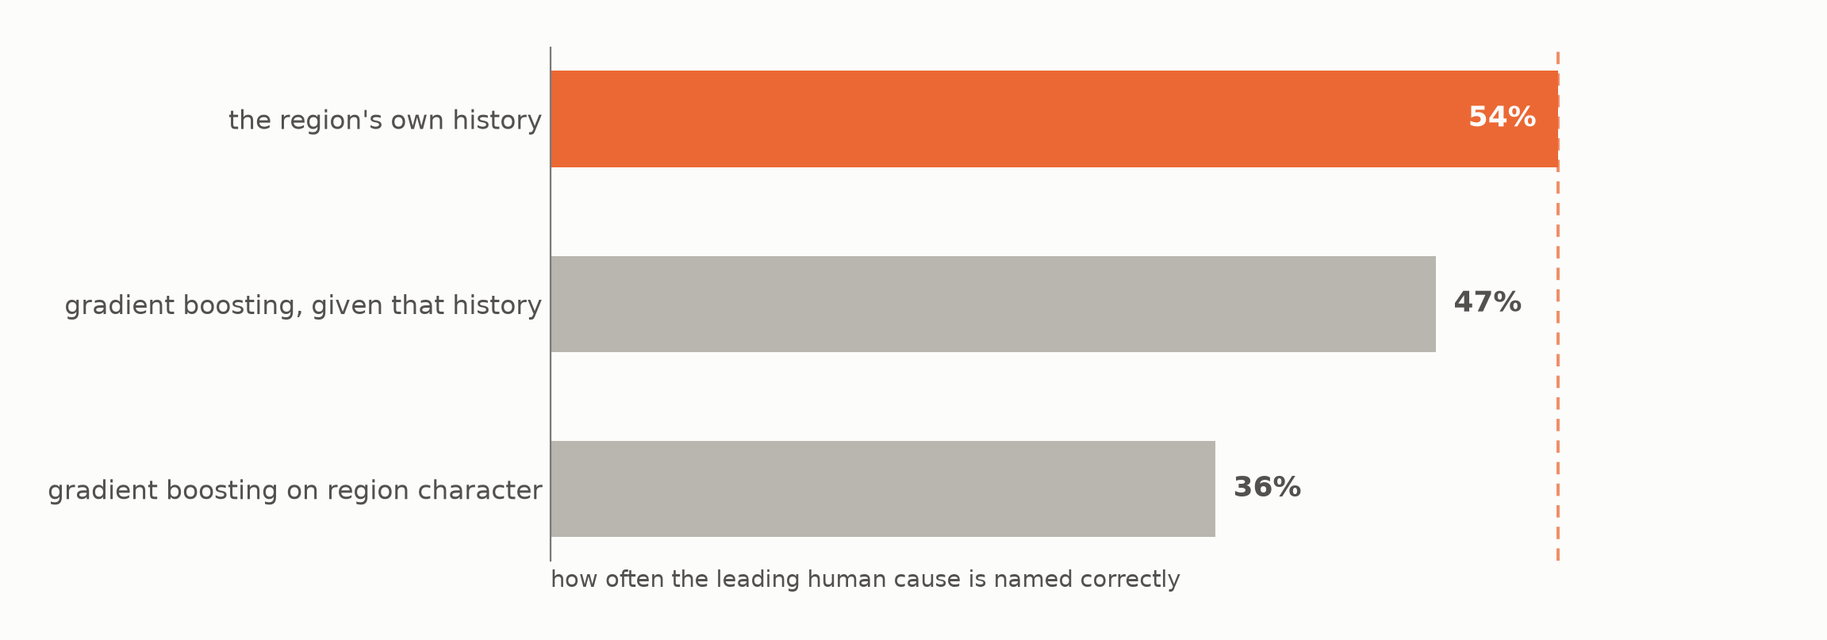
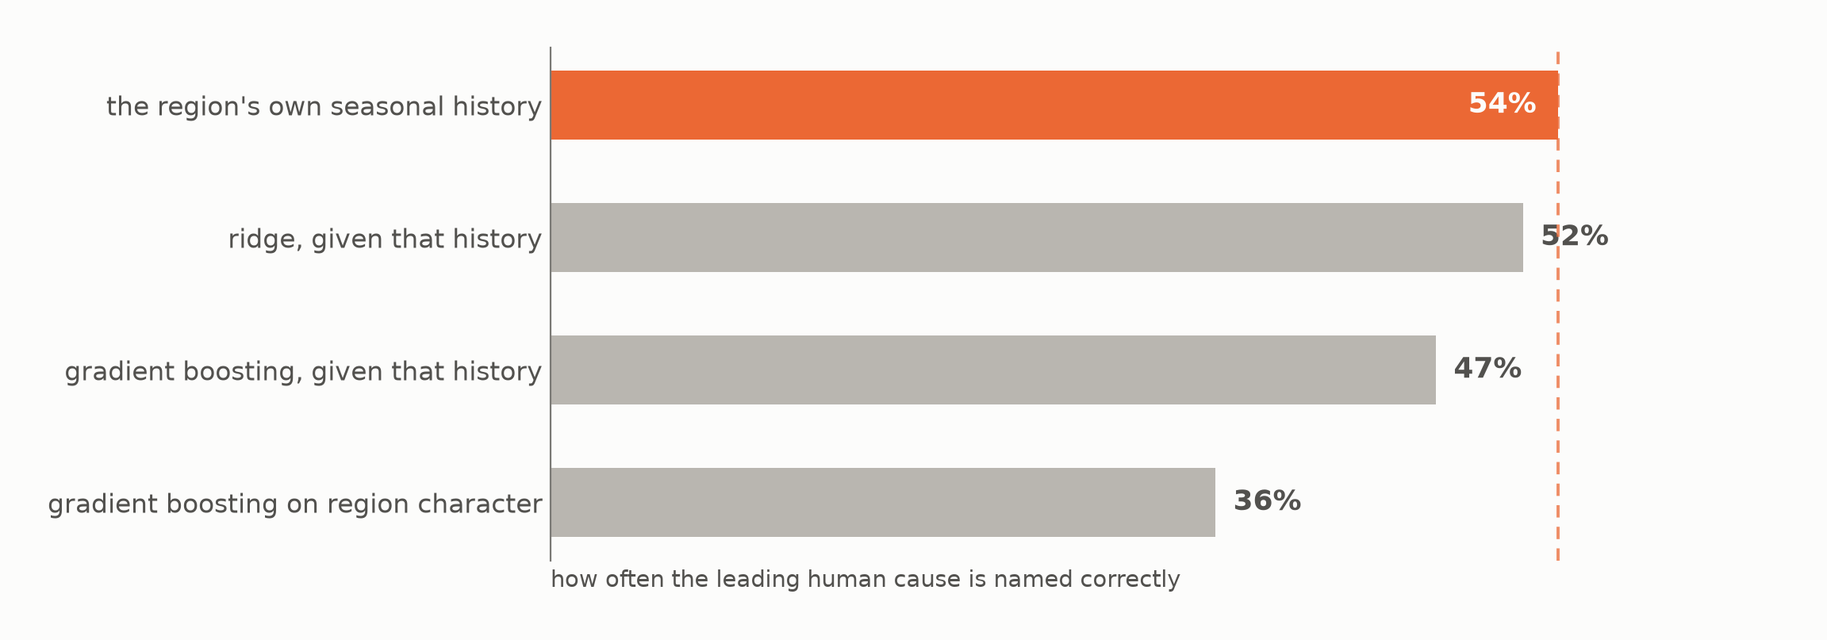
Put the second model family on the human ladder
Three bars all labelled gradient boosting made 'a learned model made it
worse' read as a claim about learned models generally. The ladder now
shows four rungs across two families: 54 (floor) / 52 (ridge+history) /
47 (GB+history) / 36 (GB coarse). The near-miss argues for an information
ceiling more convincingly than three distant losses did.

Ridge on the coarse fingerprints is deliberately not plotted -- 0.3567
against GB's 0.3566, so it would be a duplicate bar reading '36%' twice.
The five-rung table stays in 08_human_cause.

Fixes a bug that only the figure path had: human_rung_scores fits on
train rows but predicted the whole frame, which HistGradientBoosting
tolerates (NaN-native) and ridge does not. Predicts on scored rows only.

The notebook 16 cell asserts all four rungs against 08's numbers, so the
two independently written paths cannot drift silently. They agree to four
decimals.

Also relabels the floor bar to 'seasonal history', matching the tiles,
and rebuilds the timing table from the per-slide TIME lines -- it had
drifted to 10:10 against an actual 10:50.

diff --git a/src/w6_visuals.py b/src/w6_visuals.py
@@ -2661,8 +2661,9 @@ def plot_ablation_ladder(labels, values, out_path: Path, *,
             "out_path": str(out_path)}
 
 
-def human_rung_scores(panel, *, k: int | None = None, cfg=None) -> pd.DataFrame:
-    """The Human branch's three rungs, scored on one held-out set.
+def human_rung_scores(panel, *, k: int | None = None, cfg=None,
+                      include_ridge: bool = True) -> pd.DataFrame:
+    """The Human branch's rungs, scored on one held-out set.
 
     Reproduces `08_human_cause.ipynb`'s ladder by calling the same
     `models.SimplexRegressor` and `trailing.TrailingMean`, so the figure cannot
@@ -2673,9 +2674,30 @@ def human_rung_scores(panel, *, k: int | None = None, cfg=None) -> pd.DataFrame:
       (`f_*`) plus season, with no view of the cell's human past
     * **history-aware** -- the same model, additionally handed the 11 trailing
       human-mix columns as features: the very quantity the floor averages
+    * **ridge_history** -- a *different model family* on that same history-aware
+      feature set (W7; `include_ridge`)
 
-    Fits 22 gradient-boosted regressors, so it takes a couple of minutes.
+    **Why the ridge rung is here.** With only the three gradient-boosting rungs,
+    the figure invites "you picked a learner that overfits" -- and every bar on
+    it being the same family made "a learned model made it worse" read as a
+    claim about learned models generally. Ridge answers it *on the figure*: it
+    beats the booster (the booster was paying a variance cost on a small wide
+    panel -- ~5,300 training cells, 23 features, 11 correlated targets) and
+    still stops short of the floor. Two families converging just below a
+    trailing mean is the evidence for an information ceiling.
+
+    The **coarse** ridge rung is deliberately not returned: it scores 0.3567
+    against gradient boosting's 0.3566, and two bars of identical length
+    reading "36%" twice is noise. The five-rung table lives in
+    `08_human_cause.ipynb`, which is the complete record.
+
+    Fits 22 gradient-boosted regressors (plus 11 near-instant ridges), so it
+    takes a couple of minutes.
     """
+    from sklearn.linear_model import Ridge
+    from sklearn.pipeline import make_pipeline
+    from sklearn.preprocessing import StandardScaler
+
     from models import SimplexRegressor
     from trailing import TrailingMean
 
@@ -2706,17 +2728,45 @@ def human_rung_scores(panel, *, k: int | None = None, cfg=None) -> pd.DataFrame:
                                  weights=w[te])))
 
     base = d[fcols + scols].to_numpy().astype(float)
-    rows = [("the region's own history", "floor") + score(F)]
+    X_hist = np.column_stack([base, F])
+
+    # "seasonal" is load-bearing, not decoration: the grouping is (region, season),
+    # so a cell sees only its own prior same-season occurrences. The tiles figure
+    # says "seasonal history" too -- one baseline must not carry two names across
+    # two consecutive slides.
+    rows = [("the region's own seasonal history", "floor") + score(F)]
     for label, key_, X in (
         ("gradient boosting on region character", "coarse", base),
-        ("gradient boosting, given that history", "history_aware",
-         np.column_stack([base, F])),
+        ("gradient boosting, given that history", "history_aware", X_hist),
     ):
         # Acre weights in the fit, matching `08_human_cause.ipynb`. Without them
         # the learned rungs score differently -- the model spends its capacity on
         # cells that carry almost no acres.
         model = SimplexRegressor().fit(X[tr], act[tr], sample_weight=w[tr])
         rows.append((label, key_) + score(model.predict(X)))
+
+    if include_ridge:
+        # Same clip-and-renormalize projection SimplexRegressor applies, so the
+        # only thing differing from the rung above is the learner. Scaled first:
+        # the fingerprints put acres beside shares, and ridge penalizes raw
+        # coefficients, so unscaled the penalty would land almost entirely on
+        # whichever feature happens to be small-valued.
+        #
+        # Predicted on the test rows only, then scattered back. The gradient-boosting
+        # rungs above predict the whole frame because HistGradientBoosting accepts NaN
+        # natively; ridge does not, and rows outside `ok` carry NaN fingerprints. Only
+        # `te` rows are ever scored, so restricting the predict is a fix rather than a
+        # compromise -- but it means this block cannot be collapsed into the loop above.
+        P = np.full_like(act, np.nan, dtype=float)
+        P[te] = np.column_stack([
+            make_pipeline(StandardScaler(), Ridge(alpha=1.0))
+            .fit(X_hist[tr], act[tr, j], ridge__sample_weight=w[tr])
+            .predict(X_hist[te])
+            for j in range(act.shape[1])
+        ])
+        P[te] = np.clip(P[te], 0, None)         # ridge is unbounded; negatives are not shares
+        P[te] /= P[te].sum(axis=1, keepdims=True)
+        rows.append(("ridge, given that history", "ridge_history") + score(P))
 
     out = pd.DataFrame(rows, columns=["label", "key", "tvd", "top1"]).set_index("key")
     out.attrs["n_test"] = int(te.sum())

diff --git a/coursework/W7/final_script.md b/coursework/W7/final_script.md
@@ -191,17 +191,18 @@ Each slide below carries four blocks:
 
 **SAY**
 
-> A trailing mean is a low bar, so it's worth testing against something that learns. Gradient boosting, first on what kind of place the region is — thirty-six percent, well short of the history. Then the same model handed that history as a feature — the exact numbers the winning bar averages — forty-seven. Still short.
+> A trailing mean is a low bar, so it's worth testing against something that learns. Gradient boosting, first on what kind of place the region is — thirty-six percent, well short of the history. Then the same model handed that history as a feature — the exact numbers the winning bar averages — forty-seven. A second kind of model, given that same history, gets to fifty-two.
 >
-> The dashed line is the bar at the top, and it's the same fifty-four percent from the last slide. Nothing cleared it. **Given the winning quantity, gradient boosting could not beat taking its mean.**
+> The dashed line is the bar at the top, and it's the same fifty-four percent from the last slide. **Two families, and neither one beat taking the average of the thing we handed it.**
 
 **EVIDENCE**
 
-- Three rungs against the floor line: the region's own history names the leading human cause 54% of the time; gradient boosting on region character 36%; the same model given that history as a feature 47%.
-- Bars read bottom to top, worst to best: 36%, 47%, 54%. The dashed vertical is the 54% floor.
+- Four rungs against the floor line: the region's own seasonal history names the leading human cause 54% of the time; ridge given that history 52%; gradient boosting given that history 47%; gradient boosting on region character 36%.
+- Bars read top to bottom, best to worst: 54%, 52%, 47%, 36%. The dashed vertical is the 54% floor.
 - The top bar is slide 4's winning tile, replotted — not a new measurement.
-- Acre-weighted TVD 0.489 / 0.588 / 0.554.
-- Even handed the winning quantity, the model cannot beat taking its mean.
+- Acre-weighted TVD, same order: 0.489 / 0.537 / 0.554 / 0.588. 3,846 held-out cells.
+- **Ridge beats gradient boosting by 4.7 points of top-1**, which is the W7 addition. Everything else about the two rungs is identical — features, split, acre weights, held-out cells, simplex projection — so the gap is the learner alone.
+- Even handed the winning quantity, neither family beats taking its mean.
 
 **WATCH**
 
@@ -209,27 +210,30 @@ Each slide below carries four blocks:
 - **The strongest anti-tuning evidence is the flat `alpha` sweep.** Across four orders of magnitude (0.1 → 1000) ridge's top-1 is **identical to six decimal places** and TVD moves in the fifth. A regularization sweep that changes nothing is what an information ceiling looks like, not what an under-tuned model looks like. Use this if someone presses "did you tune it?"
 - **Ridge is not just rediscovering the floor** — it sits 0.283 TVD units away per cell and names a different top cause in a quarter of them (75.2% argmax agreement). Two different learners arriving near the same score by different routes is stronger evidence than either alone.
 - **Still concede what remains untested:** a full hyperparameter search over the booster, and any family beyond these two. Say "gradient boosting and ridge both lost," never "machine learning doesn't work here." *Settings on the plotted rungs:* `SimplexRegressor()` bare — `HistGradientBoostingRegressor`, `max_iter=300`, `learning_rate=0.05`, `max_leaf_nodes=31`, `random_state=0`.
-- **The figure shows three bars; there are now five rungs.** The two ridge rungs are not plotted. If asked whether another model was tried, the answer is yes and it is in the notebook — do not imply the figure is the whole ladder.
+- **The figure shows four bars; the ladder has five rungs.** Ridge on the coarse fingerprints (35.67%) is not plotted — it duplicates the gradient-boosting coarse bar (35.66%) to within a rounding step, and two identical-length bars both reading "36%" cost a beat of reading time to discover they say the same thing. Notebook 08 has the full table. Do not imply the figure is the whole ladder.
 - **What the result does rule out is "you never gave it the right features."** The history-aware rung was handed the 11 trailing human-mix columns — the exact quantity the floor averages — so the floor is a function it could represent by ignoring its other features. It is **6.5 TVD points and 6.6 top-1 points short of a quantity it was given.** That gap is an order of magnitude past what tuning moves, which is the answer to "isn't this just a hyperparameter problem?"
-- **The figure's top bar is labelled "the region's own history"; slide 4's winning tile now says "the region's own *seasonal* history."** Same quantity, same 54%, two names two slides apart. Say "seasonal" aloud on both so the room hears one baseline, not two — or relabel the figure before the final.
-- **The middle rung is the whole argument and it is easy to skip.** Losing to history is unremarkable; losing *while holding history* is the finding. If only one sentence survives a time cut, keep that one.
-- Do not say "the model failed." It scored 47% out of 11 classes — far above the 9% even guess on slide 4. It lost to a cheaper thing, which is a different claim and the one the ablation ladder is built to make.
+- **The top bar now reads "the region's own seasonal history," matching slide 4's tile** — the two-names-for-one-baseline mismatch is fixed in the figure rather than papered over in delivery. Both slides say the same words for the same 54%.
+- **The two "given that history" rungs are the whole argument and they are easy to skip.** Losing to history is unremarkable; losing *while holding history* is the finding — twice, with two different learners. If only one sentence survives a time cut, keep that one.
+- **Do not name ridge aloud unless asked.** The SAY says "a second kind of model" because the bar is labelled and the audience is executives; the word buys nothing spoken and costs a beat. The label is there for anyone who wants it.
+- Do not say "the model failed." The best learned rung scored 52% out of 11 classes — far above the 9% even guess on slide 4. It lost to a cheaper thing, which is a different claim and the one the ablation ladder is built to make.
 - Keep this slide — it is the only one conceding a model was tried and lost, which is what keeps the nulls credible.
-- The bars are a **hit rate** — how often the leading cause is named right, out of 11 — so "of the time" is the correct phrasing here, unlike slide 3. The TVDs (0.489 / 0.588 / 0.554) are in the evidence above but are **not what is plotted**; do not quote them off this figure.
+- The bars are a **hit rate** — how often the leading cause is named right, out of 11 — so "of the time" is the correct phrasing here, unlike slide 3. The TVDs are in the evidence above but are **not what is plotted**; do not quote them off this figure.
 
-**TIME —** 0:30
+**TIME —** 0:40
 
 ---
 
-## Slide 6 — Where fires start is predictable, but not at ecoregion scale.
+## Slide 6 — Where fires start is predictable, at the scale where you'd site the work.
 
 *Figure:* `img/w6_siting_glance.png`
 
 **SAY**
 
-> Everything so far has been a whole ecoregion — one number for an area the size of a small state. That is the right scale for deciding what to target, and the wrong one for deciding where to put anything. So from here the map breaks into cells of about sixty thousand acres, and the question changes with it: not how much burns, but where fires start. Counts of ignitions, per cell.
+> Everything so far has been a whole ecoregion — one number for an area the size of a small state. That is the right scale for deciding what to target, and the wrong one for deciding where to put anything.
 >
-> This is one region — the Klamath Mountains, northern California and southwest Oregon, about two hundred cells. Rank them on their own history and the dark band is six percent of the region catching a third of next season's starts. Go wider, to the light band: twenty-nine percent of the ground for sixty percent of the starts.
+> So the question changes — and it isn't a finer-grained version of the last one. The map breaks into cells of about sixty thousand acres, and the target changes with it: not shares of burned area, but counts of ignitions, per cell.
+>
+> This is one region — the Klamath Mountains, about two hundred cells. Rank them on their own history and the dark band is six percent of the region catching a third of next season's starts. Go wider, to the light band: twenty-nine percent of the ground for sixty percent of the starts.
 >
 > The return decays from there — chasing ninety percent of the starts takes seventy-eight percent of the ground, which is barely better than treating everywhere. Ranking concentrates the return; it doesn't eliminate the tail.
 
@@ -241,6 +245,9 @@ Each slide below carries four blocks:
 **WATCH**
 
 - The deck's ONE grain change, and three things change at once: unit (105 ecoregions -> 36,234 hexes), target (acres -> ignition counts), answer (shares -> counts). The headline announces only the first; say the others.
+- **This is a distinct sub-project, not a rescue of slide 5.** Delivered in sequence — a null, then a grain drop — the room will infer that the ecoregion model underperformed so the analysis went looking at a finer grain for a better number. It did not: per `CLAUDE.md` the hex ignition surface is "methodologically distinct," a different target at a different grain answering a different planner question, and the Human product ships at 54% on its own terms. The SAY blocks this with "it isn't a finer-grained version of the last one"; if asked directly, say the two are different questions and neither result depends on the other. Do NOT defend it by re-arguing 54%.
+- **The headline asserts a scale, not a comparison — keep it that way.** It previously read "but not at ecoregion scale," which claims a tested result that does not exist: no ignition model was ever built at ecoregion grain and beaten. The hex grain is a **design argument** — an ecoregion is too coarse to site work *inside* — exactly the same shape as slide 2's ecoregion choice, and it takes the same honest answer: the unit was chosen to match the decision, never because it "scored better." If asked why not ecoregions for this, say a planner cannot act on one number for an area the size of a small state; do not imply a head-to-head.
+- **The region is "Klamath Mountains/California High North Coast Range"** — verified from `data/hex_grid_res5.parquet`. The SAY shortens it to "the Klamath Mountains," which is fine as a spoken shorthand, but do not name states or add "northern California and southwest Oregon": the Level III unit also covers the California High North Coast Range, and the locator inset shows the full extent.
 - This is NOT an acres model. Unsaid, the audience reads the capture curve as "32% of the burn under 6% of the ground" — a much stronger claim than the one being made. It is 32% of the STARTS.
 - The return decays fast: 90% of starts needs 77.8% of the ground at 1.16x. The ranking concentrates return; it does not eliminate the tail.
 - Q&A companion: img/w6_capture_curve.png.
@@ -527,17 +534,22 @@ Each slide below carries four blocks:
 
 ## Timing
 
-| | slides | budget |
+Summed from the per-slide **TIME** lines. Re-derive it from those rather than editing this table by hand — the total has drifted from it twice already.
+
+| slide | budget | why it is over 0:30 |
 |---|---|---|
-| Title — setup + BLUF | 1 | 0:45 |
-| Slide 2 — explains the unit | 1 | 0:40 |
-| Slide 3 — names the Tier-1 classes | 1 | 0:40 |
-| Remaining slides | 16 | 8:05 |
-| **Total** | **19** | **10:10** |
+| 0 — title | 0:45 | the deck's only setup: stakeholder, data source, missing-cause caveat |
+| 1 — seasonality | 0:35 | carries the seasonal-horizon citation |
+| 2 — the cause map | 0:40 | the only slide that explains the ecoregion unit |
+| 3 — Tier-1 tiles | 0:55 | names the three classes, the acres denominator, and the spread |
+| 4 — human tiles | 0:45 | the tier change, the 11 causes, and the counts-vs-acres inversion |
+| 5 — the ladder | 0:40 | four rungs and two model families |
+| 6–18 | 0:30 each | 13 slides at the standard budget |
+| **Total** | **10:50** | against a ~10:00 target |
 
-Three slides carry more than an even share: the title is the deck's only setup (stakeholder, data source, missing-cause caveat), slide 2 is the only slide that explains the ecoregion unit, and slide 3 is the only one that names the three Tier-1 classes. All three are load-bearing for everything after them.
+Six slides carry more than an even share, and each is the only place its content appears. The other thirteen get **30 seconds**, which is why every one of them has to open on its assertion rather than a wind-up.
 
-The remaining sixteen slides get **30 seconds each**, which is why every slide has to open on its assertion rather than on a wind-up. Re-time after the first full run — measured pace beats estimated pace, and the trim comes out of whatever actually ran long.
+**Currently 50 seconds long.** Re-time after the first full run — measured pace beats estimated pace, and the trim comes out of whatever actually ran long rather than out of whatever looks longest on the page.
 
 **Next compression candidates: slides 12–13** (a matched pair that can compress to one). Slides **8 and 9** are also a matched pair, but neither survives alone — cut both or neither.
 

diff --git a/coursework/collaboration_log.md b/coursework/collaboration_log.md
@@ -1427,3 +1427,15 @@ Week 4 opens the modeling design against the cleaned analysis grain (`data/regio
 - **Method note I want on the record.** The agent replicated cells 1/3/5/17/18/21 outside the notebook first and **reproduced the committed outputs exactly** (0.4887 / 0.5877 / 0.5536) before adding anything — so the new numbers come from a pipeline proven faithful, not a re-implementation that might differ. Then it executed the new cell as written in the notebook to confirm every figure in the Finding matches. **I have not run the notebook myself yet;** the three new cells carry no outputs.
 - **No new dependency** — scikit-learn was already declared in `environment.yml`.
 - **What this changed:** `notebook/08_human_cause.ipynb` (+3 cells: framing, `SimplexRidge` + alpha sweep + 5-rung ladder + floor-similarity control, Finding); `CLAUDE.md` — the human-branch "closed, not open" section now records the family test and scopes the remaining untried rung to a booster hyperparameter search; slide 5 SAY ("the model" → "gradient boosting") and five WATCH lines, including one noting the figure shows three bars while the ladder is now five rungs.
+
+### Entry 7.15
+- **Date:** 2026-08-17
+- **What was going on:** Having established that ridge beats the booster and still loses to the floor (Entry 7.14), the finding lived only in a notebook and a WATCH line. I decided to put it on the slide: **I want the audience to see that we did more diligence.**
+- **The recommendation I took, and the one I declined.** The agent proposed adding one bar (ridge-with-history, 52%) and leaving ridge-on-coarse off, because at 35.67% it duplicates the gradient-boosting coarse bar at 35.66% — two identical-length bars both reading "36%" is reading time spent discovering they say the same thing. I agreed. The full five-rung table stays in notebook 08, which is the complete record; the figure is the argument, not the archive.
+- **Why the fourth bar earns its place.** Three bars all labelled "gradient boosting" is what made "a learned model made it worse" read as a claim about learned models generally. Four bars across two families makes the headline literally true of what is plotted. And the *near-miss* is more persuasive than the losses: a bar stopping 1.9 points short of the floor rule argues for a ceiling in a way a bar 18 points short cannot.
+- **A real bug surfaced that only appeared in the figure path.** `human_rung_scores` fits on the training rows but predicts the **whole** frame — fine for `HistGradientBoosting`, which accepts NaN natively, and fatal for ridge, which does not. Rows outside the usable mask carry NaN fingerprints. The fix is to predict on the scored rows only and scatter back, which is also just correct: nothing outside `te` is ever scored. Worth recording because the notebook path never had this problem — it masks first — so the two code paths diverged in a way only exercised by adding a NaN-intolerant learner.
+- **The cross-check I now insist on is in the notebook cell itself.** `human_rung_scores` re-fits everything independently of notebook 08, so the two can silently drift. The cell asserts all four rungs against 08's published numbers and fails loudly on a mismatch. All four match to four decimals — 0.4887/0.5405, 0.5877/0.3566, 0.5536/0.4748, 0.5366/0.5215 — which is two independently written code paths agreeing, not one path repeated.
+- **The label mismatch from Entry 7.13 is now fixed properly.** The floor bar reads "the region's own **seasonal** history," matching the tiles. I had been offered the cheap fix (say "seasonal" aloud on both slides) and preferred the figure carry it, since the regeneration was happening anyway.
+- **What it costs.** Slide 5 goes 0:30 → 0:40 (97 words). The SAY deliberately does **not** say "ridge" — it says "a second kind of model," because the bar is labelled and the word buys nothing spoken to an executive audience. Deck total is **10:50** against ~10:00. I am carrying that until a measured run rather than trimming on estimates.
+- **The timing table had drifted and is now derived, not maintained.** It still described a three-slide split from before slides 1, 3 and 4 moved, and summed to 10:10 when the per-slide TIME lines summed to 10:50. Rebuilt from the actual TIME lines with a note to re-derive rather than hand-edit.
+- **What this changed:** `src/w6_visuals.py` (`human_rung_scores` gains `include_ridge`, the predict-on-test-rows fix, the "seasonal" relabel); `img/w6_human_ladder.png` regenerated at four bars; `notebook/16_w7_visuals.ipynb` (+3 cells and a rewritten intro — it said "one revision so far"); slide 5 SAY/EVIDENCE/WATCH and the timing table; `CLAUDE.md` ("two learned rungs" → "three learned rungs across two model families"). **The new notebook cells are unexecuted**, though the code was run outside the notebook to produce the committed figure.

diff --git a/CLAUDE.md b/CLAUDE.md
@@ -163,7 +163,7 @@ Found W6 while sanity-checking cell acreages against hex area. **A point-only fi
 ## What is open
 
 - **Same-day escape conditions.** The one question the W6 nulls leave genuinely open: **pre-season** covariates do not predict which igniting hexes escape, which is narrower than "nothing does." Wind, timing, and suppression availability are a different model with a different data requirement — untested.
-- **A human sub-cause fingerprint at Level III — closed, not open.** Two learned rungs were tried and both lost to the k=7 floor (0.489 TVD / 54.1% top-1). The coarse Tier-1 fingerprint scores 0.588 / 35.7%: a region's coarse character does not recover its within-Human mix. **The history-aware rung was also built** (`08_human_cause.ipynb`, cell 21) — the same model handed the 11 trailing human-mix columns as features, i.e. the exact quantity the floor averages — and scores 0.554 / 47.5%, still 7 points short of taking that feature's mean. An earlier version of this file described that rung as "the remaining untried rung"; it is not.
+- **A human sub-cause fingerprint at Level III — closed, not open.** Three learned rungs across two model families were tried and all lost to the k=7 floor (0.489 TVD / 54.1% top-1). The coarse Tier-1 fingerprint scores 0.588 / 35.7%: a region's coarse character does not recover its within-Human mix. **The history-aware rung was also built** (`08_human_cause.ipynb`, cell 21) — the same model handed the 11 trailing human-mix columns as features, i.e. the exact quantity the floor averages — and scores 0.554 / 47.5%, still 7 points short of taking that feature's mean. An earlier version of this file described that rung as "the remaining untried rung"; it is not.
 
   **The model-family question is also closed (W7).** Both plotted rungs are `SimplexRegressor` — `HistGradientBoostingRegressor` at stock settings — so "was the learner at fault?" was open until a linear rung was run in `08_human_cause.ipynb` (final section): ridge per sub-cause, everything else held identical. **Ridge with history scores 0.5366 TVD / 52.2% top-1, beating gradient boosting's 0.5536 / 47.5% and still losing to the floor's 0.4887 / 54.1%.** The booster was paying a variance cost on a small wide panel (~5,300 training cells, 23 features, 11 correlated targets); correcting it recovers ~5 points of top-1 and does not reach the trailing mean. **The `alpha` sweep is flat across four orders of magnitude** — top-1 identical to six decimals from 0.1 to 1000 — which is an information ceiling, not an under-tuned model. Ridge is not merely rediscovering the floor: 0.283 TVD units away per cell, 75.2% argmax agreement. What remains genuinely untried is a hyperparameter search over the booster, which the flat sweep makes unpromising.
 - **Unknown triage by agency.** `09_unknown_dataquality.ipynb` ranks by region but not by reporting stream, and the missingness pattern is agency-shaped.
